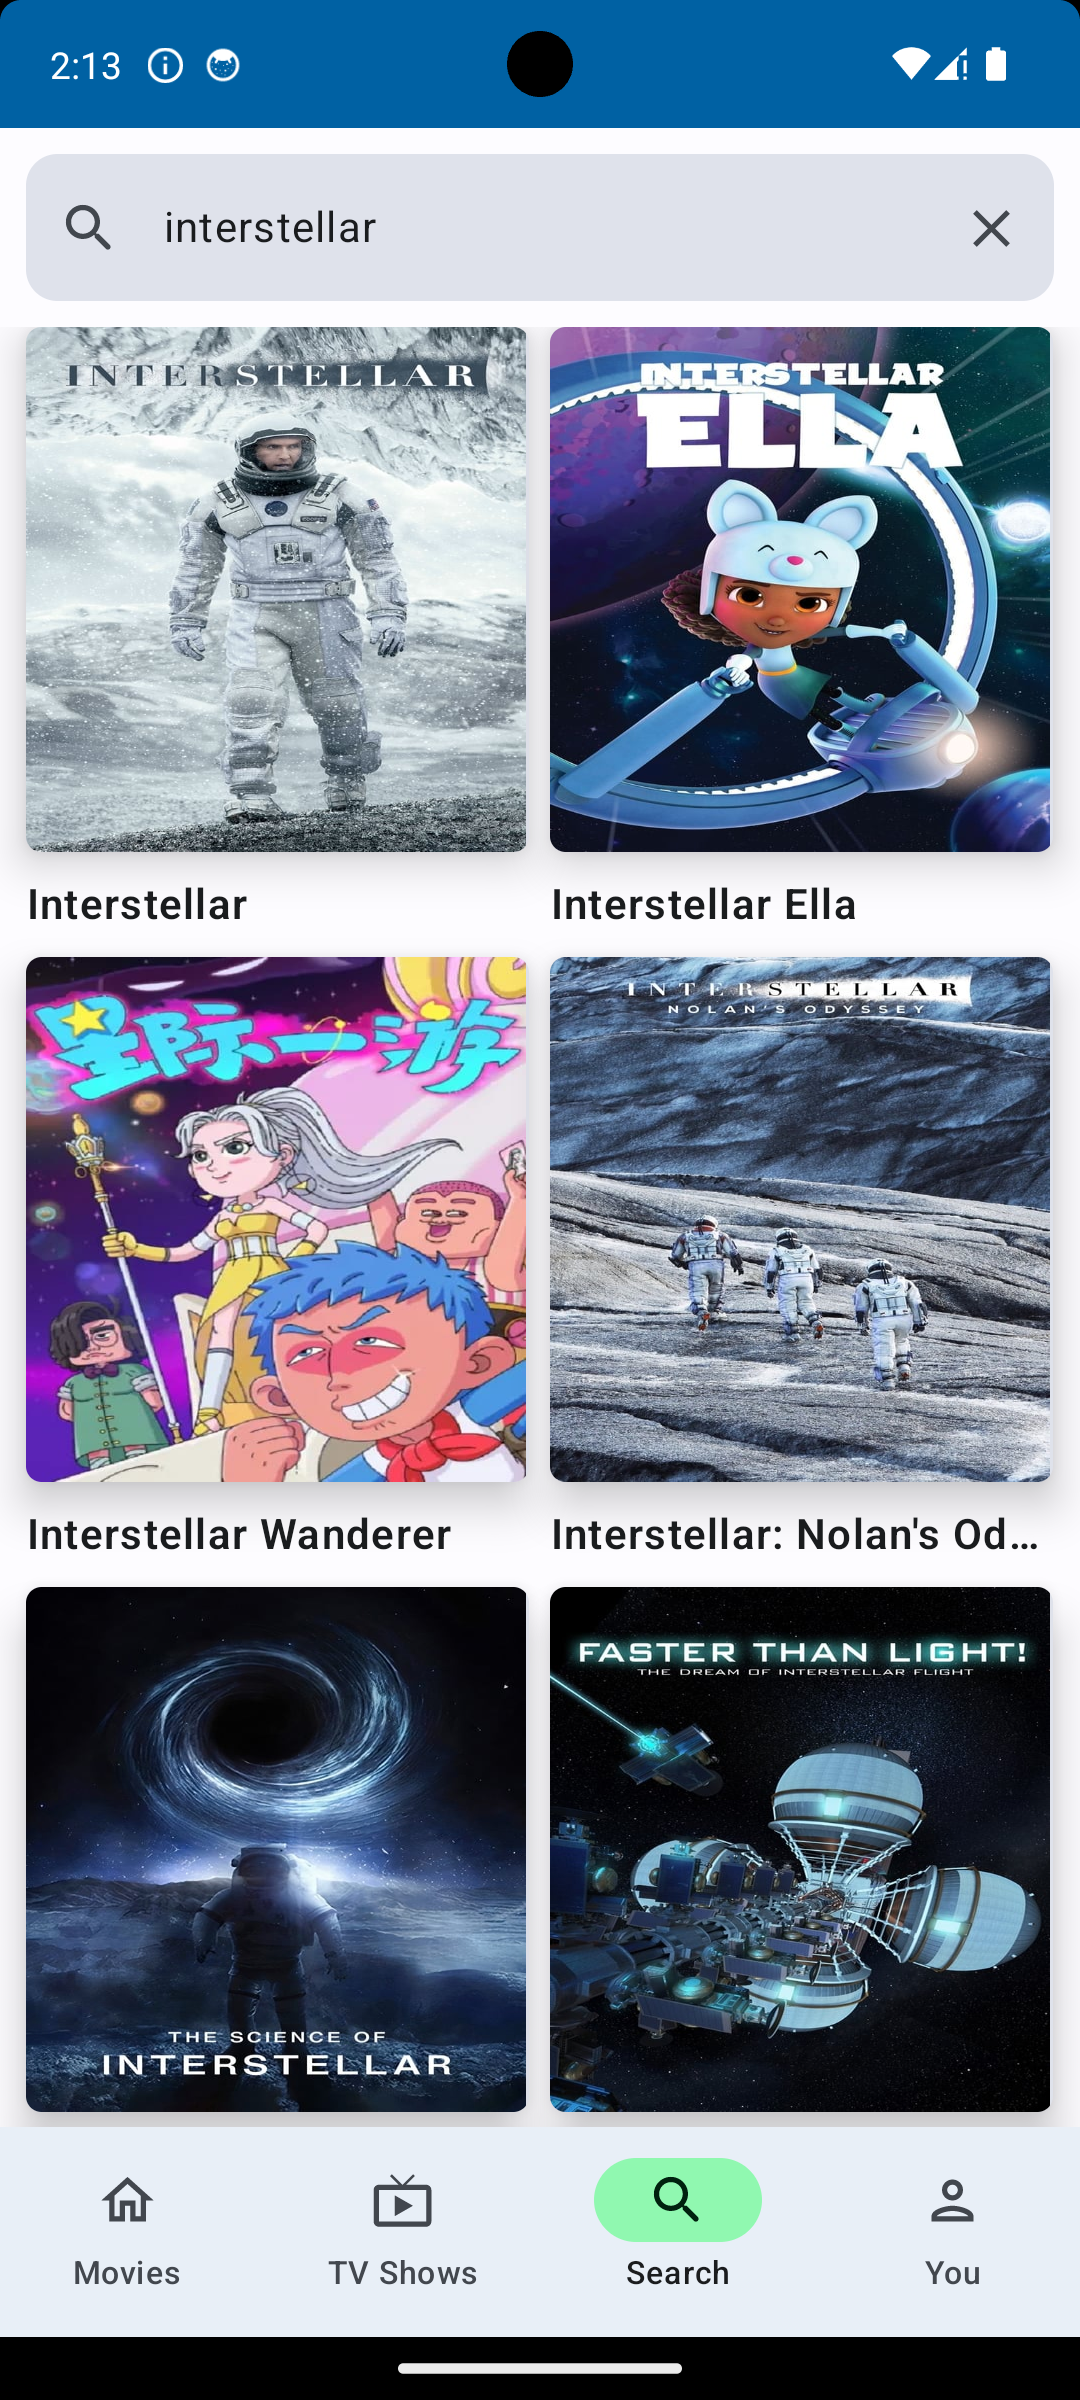
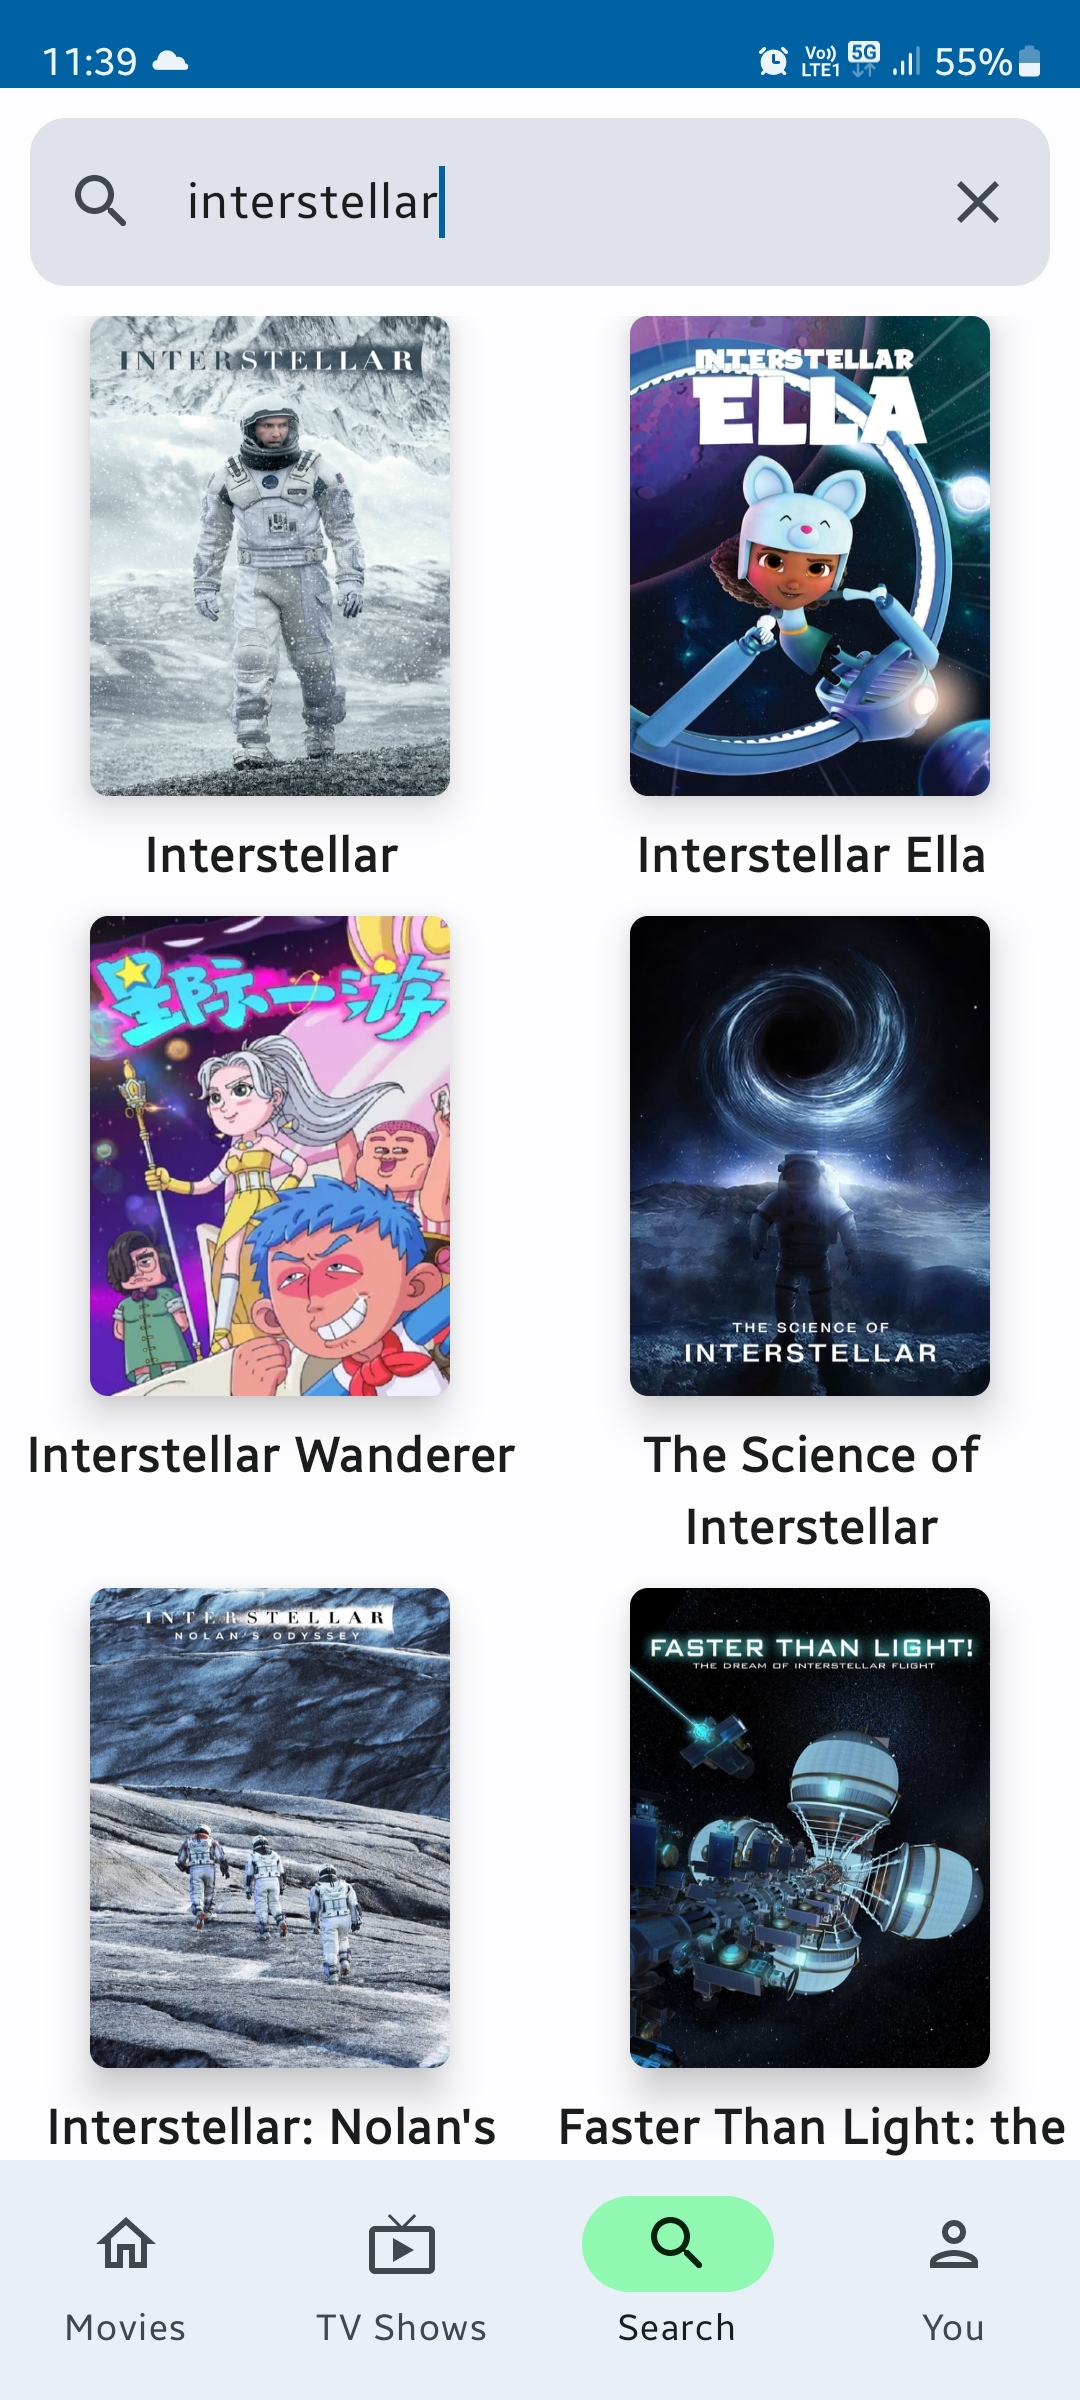
changed gridcells to fixed in Search screen

diff --git a/feature/search/src/main/java/com/anshtya/movieinfo/feature/search/SearchSuggestionItem.kt b/feature/search/src/main/java/com/anshtya/movieinfo/feature/search/SearchSuggestionItem.kt
@@ -4,8 +4,10 @@ import androidx.compose.foundation.layout.Column
 import androidx.compose.foundation.layout.padding
 import androidx.compose.material3.Text
 import androidx.compose.runtime.Composable
+import androidx.compose.ui.Alignment
 import androidx.compose.ui.Modifier
 import androidx.compose.ui.text.font.FontWeight
+import androidx.compose.ui.text.style.TextAlign
 import androidx.compose.ui.text.style.TextOverflow
 import androidx.compose.ui.unit.dp
 import com.anshtya.movieinfo.core.ui.MediaItemCard
@@ -15,22 +17,22 @@ import com.anshtya.movieinfo.core.ui.noRippleClickable
 internal fun SearchSuggestionItem(
     name: String,
     imagePath: String,
-    onItemClick: () -> Unit,
-    modifier: Modifier = Modifier
+    onItemClick: () -> Unit
 ) {
     Column(
+        horizontalAlignment = Alignment.CenterHorizontally,
         modifier = Modifier.noRippleClickable { onItemClick() }
     ) {
         MediaItemCard(
             posterPath = imagePath,
-            onItemClick = onItemClick,
-            modifier = modifier
+            onItemClick = onItemClick
         )
         Text(
             text = name,
             maxLines = 2,
             overflow = TextOverflow.Ellipsis,
             fontWeight = FontWeight.SemiBold,
+            textAlign = TextAlign.Center,
             modifier = Modifier.padding(vertical = 8.dp)
         )
     }

diff --git a/feature/search/src/main/java/com/anshtya/movieinfo/feature/search/SearchScreen.kt b/feature/search/src/main/java/com/anshtya/movieinfo/feature/search/SearchScreen.kt
@@ -88,8 +88,8 @@ internal fun SearchScreen(
                 }
 
                 LazyVerticalGrid(
-                    columns = GridCells.Adaptive(140.dp),
-                    contentPadding = PaddingValues(horizontal = 10.dp),
+                    columns = GridCells.Fixed(2),
+                    contentPadding = PaddingValues(horizontal = 4.dp),
                     horizontalArrangement = Arrangement.spacedBy(8.dp),
                     modifier = Modifier.fillMaxSize()
                 ) {
@@ -103,8 +103,7 @@ internal fun SearchScreen(
                             onItemClick = {
                                 // Converting type to uppercase for [MediaType]
                                 onSearchResultClick("${it.id},${it.mediaType.uppercase()}")
-                            },
-                            modifier = Modifier.fillMaxSize()
+                            }
                         )
                     }
                 }
